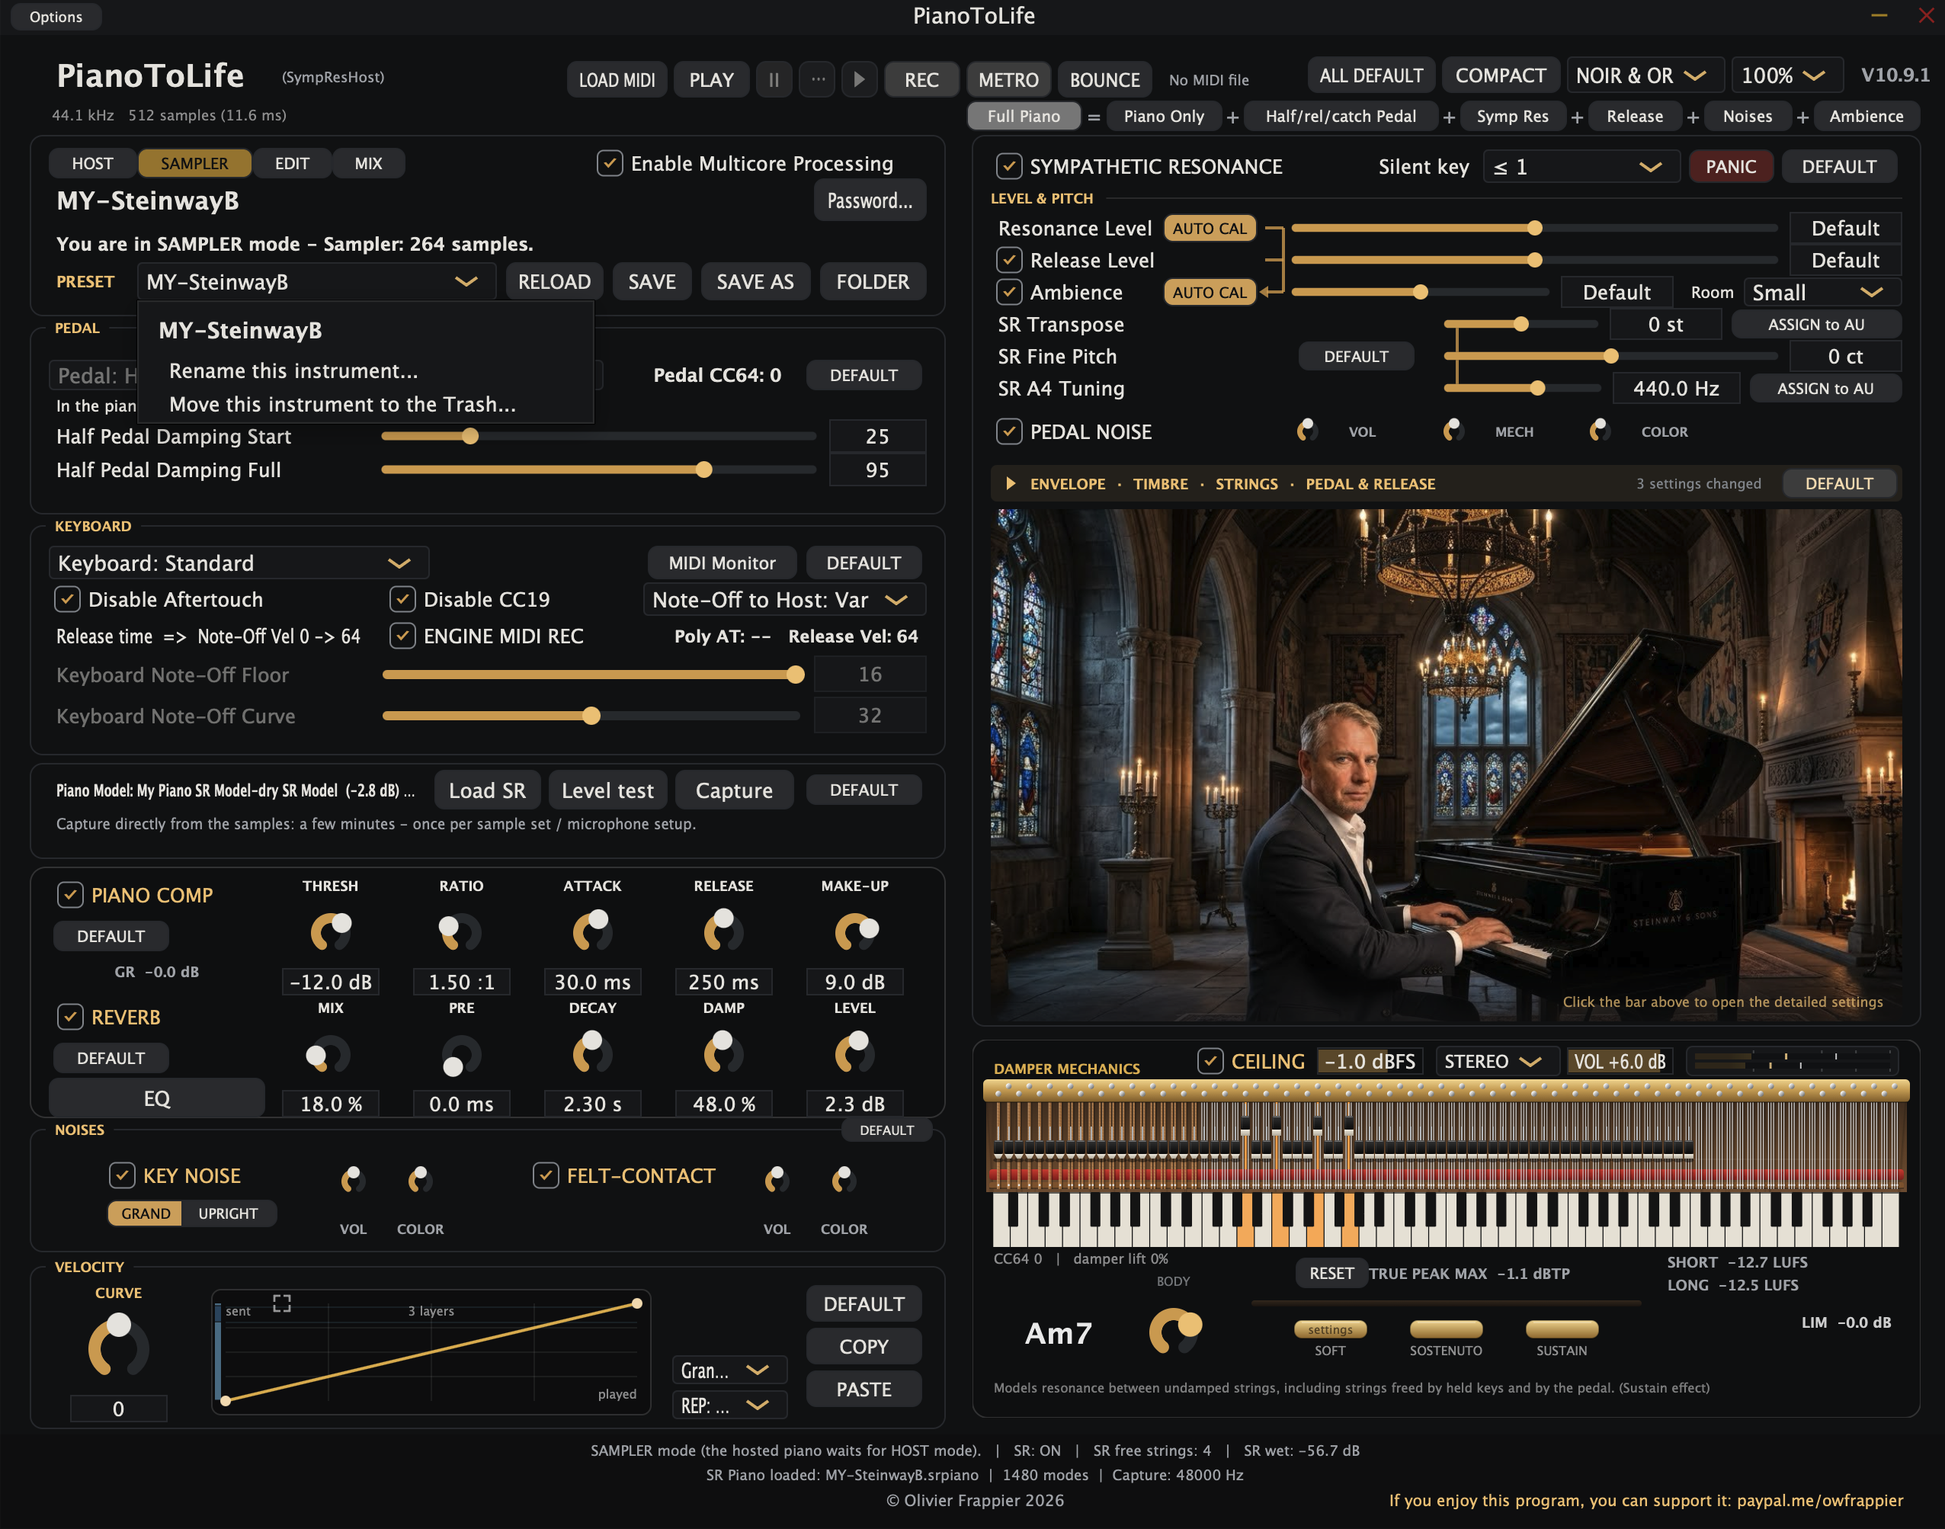
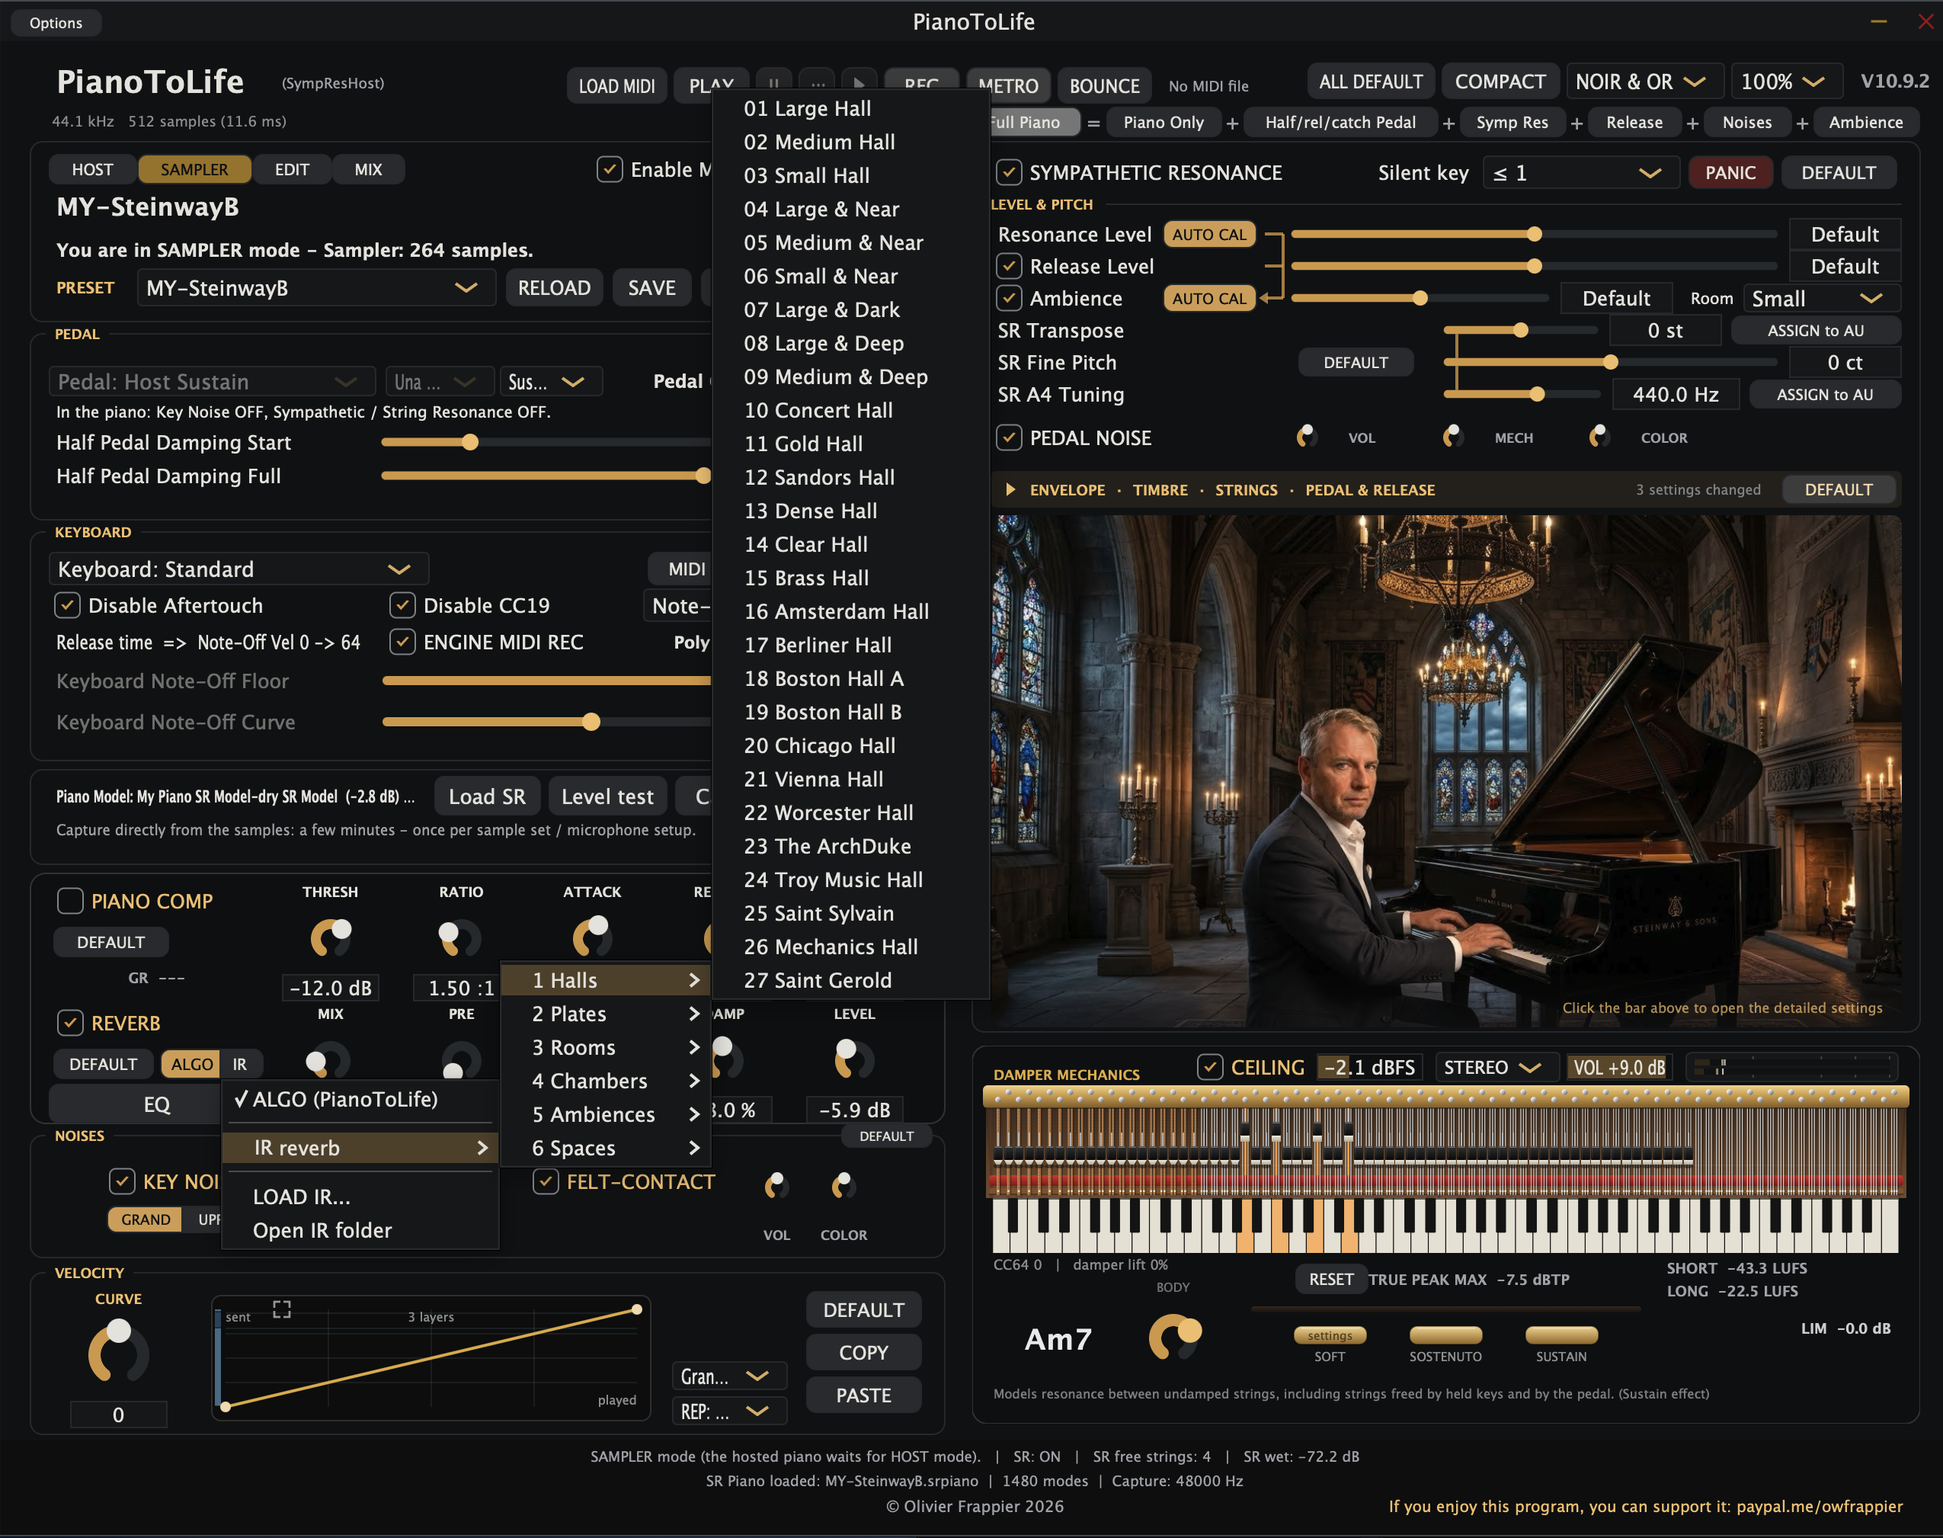
Add files via upload

diff --git a/MANUEL.md b/MANUEL.md
@@ -1,6 +1,6 @@
 # PianoToLife — Manuel d'utilisation
 
-*Version 10.9.1 · [English version](USER_MANUAL.md) · Mapping du sampler : [Manuel du sampler](MANUEL_SAMPLER.md)*
+*Version 10.9.2 · [English version](USER_MANUAL.md) · Mapping du sampler : [Manuel du sampler](MANUEL_SAMPLER.md)*
 
 PianoToLife fait **se comporter un piano virtuel comme un vrai** : les cordes qui résonnent par sympathie, la pédale
 de sustain et la demi-pédale, les étouffoirs, le relâchement, l'una corda, les bruits de la mécanique. Ce manuel
@@ -335,9 +335,10 @@ signaler un clavier qui se comporte à sa façon.
 | **BODY** | La taille perçue du piano (à gauche de SOFT) : la fondamentale de chaque note renforcée ou atténuée, en HOST et en SAMPLER |
 | **Ambience** | Une salle autour de tout ce que PianoToLife ajoute (résonance, relâchement, bruits), jamais autour du son de votre piano. **Room** : Small, Medium, Default, Hall ou **Auto** (10.8.0, voir plus bas). Le curseur va de −6 à +6 dB autour de Default (10.8.0) |
 | **Piano Comp**, **Reverb** | Placés après la résonance : tout l'instrument passe dedans |
+| **Reverb ALGO \| IR** (10.9.2) | À côté du DEFAULT de REVERB. **ALGO** : le Piano Hall de PianoToLife. **IR** : une reverb à convolution avec une **réponse impulsionnelle** de votre choix (une vraie salle, une plaque, une reverb de légende...). Cliquez sur **IR** : choisissez une IR, **LOAD IR...** (un WAV, AIFF ou FLAC téléchargé : il est copié dans le dossier `Impulse Responses` de votre dossier de sets, et choisi) ou **Open IR folder** (les dossiers qu'il contient, jusqu'à trois niveaux, deviennent des sous-menus). Les IR mono, stéréo et **true stereo** (4 canaux, ou une paire de fichiers « ... L » / « ... R » : choisissez l'un ou l'autre, les deux sont pris) sont lues, à toute fréquence, jusqu'à 10 s ; les fichiers B-format (ambisoniques) ne le sont pas. Le niveau est calé sur le Piano Hall. Choisir une IR met DECAY à la longueur propre de l'IR et DAMP à 0 (l'IR telle qu'enregistrée) ; ensuite **DECAY** raccourcit sa queue et **DAMP** éteint plus vite ses aigus ; MIX, PRE et LEVEL comme d'habitude. Aucune latence. Un preset garde le nom de l'IR : si le fichier manque, le Piano Hall joue et le bouton affiche **IR ?**. DEFAULT = ALGO. IR gratuites : [Voxengo](https://www.voxengo.com/impulses), [OpenAIR](https://www.openair.hosted.york.ac.uk/?page_id=2) (de vraies salles, prenez les fichiers stéréo), [Airwindows](https://airwindows.com/airwindows-impulses) ; les bibliothèques commerciales livrées en WAV marchent aussi |
 | **EQ1 / EQ2** (10.4.2) | Cliquez sur **EQ** sous REVERB : les EQ prennent la place de COMP / REVERB (le même bouton les ramène). **EQ1 BEFORE FX** agit avant COMP et REVERB, pour façonner le timbre du piano ; **EQ2 AFTER FX** agit tout à la fin, avant le Ceiling, pour corriger un casque. Pour chacun : **dessinez sur la courbe** (double-clic = un nouveau point, glisser = fréquence et gain, molette sur un point = sa largeur Q, clic droit = le supprimer), PREAMP, RESET = à plat, ou **LOAD** un preset — un `ParametricEQ.txt` d'AutoEq (mesures d'oratory1990, cible Harman) ou un fichier Equalizer APO ; chargez les presets de casque dans EQ2 (désactivez-le pour un bounce ou sur enceintes). Jusqu'à 20 points chacun. Gardé dans le preset et la session |
 | **Output Ceiling** | Limiteur de sécurité true peak transparent, avec TRUE PEAK MAX, LUFS et l'indicateur du limiteur (LIM). Depuis la 10.8.1, **CEILING, OUTPUT, VOL et le vumètre** sont réunis sur la ligne du titre DAMPER MECHANICS, dans l'ordre du son. Depuis la 10.9.1 : **un clic sur CEILING pour taper une valeur**, double-clic = défaut |
-| **VOL** (10.7.0) | Volume d'écoute, de −40 à +12 dB, juste avant le Ceiling (qui protège toujours). **Un clic pour taper une valeur** (10.9.1), double-clic = 0 dB. **Il n'est jamais sauvegardé : il revient à 0 dB à chaque changement de preset ou d'instrument, au redémarrage et avec ALL DEFAULT.** C'est voulu : VOL sert pour le moment, pas pour l'instrument. Réglez le vrai niveau de chaque instrument là où il se règle — les micros et LEVEL en mode SAMPLER, le volume du piano hébergé lui-même en mode HOST — pour que tous vos instruments jouent à des niveaux cohérents et qu'un VOL oublié ne vous trompe jamais |
+| **VOL** (10.7.0) | Volume d'écoute, de −40 à +12 dB, juste avant le Ceiling (qui protège toujours). **Un clic pour taper une valeur** (10.9.1), double-clic = 0 dB. **Depuis la 10.9.2, il est sauvegardé avec le preset, l'instrument et la session**, comme le Ceiling (les presets enregistrés avant s'ouvrent à 0 dB) ; ALL DEFAULT le remet à 0 dB. Réglez le vrai niveau de chaque instrument là où il se règle — les micros et LEVEL en mode SAMPLER, le volume du piano hébergé lui-même en mode HOST — et gardez VOL pour le niveau d'écoute |
 | **OUTPUT** (10.8.1 ; SWAP L-R depuis la 10.7.0) | **STEREO** tel quel ; **SWAP** gauche et droite inversés (le côté du public au lieu de celui du pianiste) ; **MONO** gauche et droite additionnés (pour les prises coïncidentes ou mono) ; **MONO L** / **MONO R** un seul côté, sur les deux sorties — avec des micros espacés la somme sonne creux (trous de phase), un seul côté non : essayez les deux, gardez le plus plein. Pour une seule enceinte, un retour de scène ou une sono mono. Cela dépend de votre casque / vos enceintes, pas du piano : **charger un preset ou un instrument ne le change jamais**, il revient au redémarrage et avec la session ; ALL DEFAULT le remet sur STEREO |
 | **Vumètre** (10.8.1) | Ce qui sort vraiment, après VOL, OUTPUT et le Ceiling : barres L et R, corps = RMS (ce qu'on entend), trait clair = crête, petit repère = la crête la plus haute (1,5 s), rouge au-dessus de −1 dBFS. Repères à −24, −12, −6 et 0 dBFS. Léger pour le CPU |
 

diff --git a/USER_MANUAL.md b/USER_MANUAL.md
@@ -1,6 +1,6 @@
 # PianoToLife — User Manual
 
-*Version 10.9.1 · [Version française](MANUEL.md) · Sampler mapping: [Sampler Manual](SAMPLER_MANUAL.md)*
+*Version 10.9.2 · [Version française](MANUEL.md) · Sampler mapping: [Sampler Manual](SAMPLER_MANUAL.md)*
 
 PianoToLife makes a virtual piano **behave like a real one**: the strings that ring in sympathy, the sustain pedal
 and half pedal, the dampers, the release, the una corda, the noises of the mechanism. This manual explains how it
@@ -315,9 +315,10 @@ goes to the **Host**. Differences are highlighted;
 | **BODY** | The perceived size of the piano (left of SOFT): each note's fundamental raised or lowered, in HOST and SAMPLER |
 | **Ambience** | A room around everything PianoToLife adds (resonance, release, noises), never around your piano's own sound. **Room**: Small, Medium, Default, Hall or **Auto** (10.8.0, see below). The slider goes from −6 to +6 dB around Default (10.8.0) |
 | **Piano Comp**, **Reverb** | Placed after the resonance, so the whole instrument goes through them |
+| **Reverb ALGO \| IR** (10.9.2) | Beside REVERB's DEFAULT. **ALGO**: PianoToLife's Piano Hall. **IR**: a convolution reverb with an **impulse response** of your choice (a real hall, a plate, a vintage reverb unit...). Click **IR**: choose an IR, **LOAD IR...** (a WAV, AIFF or FLAC you downloaded: it is copied into the `Impulse Responses` folder of your sample sets folder, and chosen), or **Open IR folder** (folders inside it, up to three levels, become sub-menus). Mono, stereo and **true stereo** IRs (4 channels, or a pair of files "... L" / "... R": choose either, both are taken) are read, at any sample rate, up to 10 s; B-format (ambisonic) files are not. The level is matched to the Piano Hall. Choosing an IR sets DECAY to the IR's own length and DAMP to 0 (the IR as recorded); then **DECAY** shortens its tail and **DAMP** makes its treble die sooner; MIX, PRE and LEVEL work as usual. No latency. A preset keeps the IR's name: if the file is missing, the Piano Hall plays and the button reads **IR ?**. DEFAULT = ALGO. Free IRs: [Voxengo](https://www.voxengo.com/impulses), [OpenAIR](https://www.openair.hosted.york.ac.uk/?page_id=2) (real halls, use the stereo files), [Airwindows](https://airwindows.com/airwindows-impulses); commercial libraries delivered in WAV work too |
 | **EQ1 / EQ2** (10.4.2) | Click **EQ** under REVERB: the EQs take the place of COMP / REVERB (the same button brings them back). **EQ1 BEFORE FX** works before COMP and REVERB, to shape the tone of the piano; **EQ2 AFTER FX** works at the very end, before the Ceiling, to correct headphones. Each: **draw it on the curve** (double-click = a new point, drag = frequency and gain, mouse wheel on a point = its width Q, right-click = remove), PREAMP, RESET = flat, or **LOAD** a preset — a `ParametricEQ.txt` from AutoEq (oratory1990 measurements, Harman target) or an Equalizer APO file; load headphone presets in EQ2 (switch it off for a bounce or on loudspeakers). Up to 20 points each. Kept in the preset and the session |
 | **Output Ceiling** | Transparent true-peak safety limiter, with TRUE PEAK MAX, LUFS and the limiter's meter (LIM). Since 10.8.1 **CEILING, OUTPUT, VOL and the level meter** sit together on the DAMPER MECHANICS title line, in the order of the sound. Since 10.9.1: **click once on CEILING to type a value**, double-click = default |
-| **VOL** (10.7.0) | Listening volume, −40 to +12 dB, just before the Ceiling (which still protects). **Click once to type a value** (10.9.1), double-click = 0 dB. **It is never saved: it goes back to 0 dB at each preset or instrument change, at restart and with ALL DEFAULT.** This is on purpose: VOL is for the moment, not for the instrument. Set the real level of each instrument where it belongs — the microphones and LEVEL in SAMPLER mode, the hosted piano's own volume in HOST mode — so that all your instruments play at coherent levels and a forgotten VOL never misleads you |
+| **VOL** (10.7.0) | Listening volume, −40 to +12 dB, just before the Ceiling (which still protects). **Click once to type a value** (10.9.1), double-click = 0 dB. **Since 10.9.2 it is saved with the preset, the instrument and the session**, as the Ceiling (presets saved before open at 0 dB); ALL DEFAULT puts it back to 0 dB. Set the real level of each instrument where it belongs — the microphones and LEVEL in SAMPLER mode, the hosted piano's own volume in HOST mode — and keep VOL for the listening level |
 | **OUTPUT** (10.8.1; SWAP L-R since 10.7.0) | **STEREO** as it is; **SWAP** left and right swapped (the audience's side instead of the pianist's); **MONO** left and right summed (for coincident or mono recordings); **MONO L** / **MONO R** one side only, on both outputs — with spaced microphones the sum sounds hollow (phase holes), one side does not: try both, keep the fuller one. For a single speaker, a stage monitor or a mono PA. It depends on your headphones / speakers, not on the piano: **loading a preset or an instrument never changes it**, it comes back at restart and with the session; ALL DEFAULT puts it back to STEREO |
 | **Level meter** (10.8.1) | What really goes out, after VOL, OUTPUT and the Ceiling: L and R bars, body = RMS (what you hear), bright line = peak, small mark = the highest peak (1.5 s), red above −1 dBFS. Marks at −24, −12, −6 and 0 dBFS. Light on CPU |
 

diff --git a/MANUEL_SAMPLER.md b/MANUEL_SAMPLER.md
@@ -1,6 +1,6 @@
 # Sampler de PianoToLife — Manuel d'utilisation
 
-*Version 10.9.1 · [English version](SAMPLER_MANUAL.md) · Manuel général : [Manuel d'utilisation](MANUEL.md)*
+*Version 10.9.2 · [English version](SAMPLER_MANUAL.md) · Manuel général : [Manuel d'utilisation](MANUEL.md)*
 
 Le sampler intégré de PianoToLife joue **vos propres échantillons de piano**, avec tous les moteurs de PianoToLife
 par-dessus. Ce manuel explique comment transformer un dossier d'échantillons en piano jouable, ce que fait chaque
@@ -84,7 +84,8 @@ UNDO et REDO sont dans le panneau de droite, juste au-dessus des réglages de la
 **Formats** : WAV, AIFF, FLAC et `.ncw` de Kontakt (10.3.5), mono ou stéréo, toute résolution. Les échantillons
 au-dessus de 48 kHz sont convertis en 44,1 / 48 kHz à l'enregistrement du set (un piano n'a rien d'utile au-dessus de
 20 kHz) ; les `.ncw` sont toujours réécrits en WAV ou FLAC dans le set. Les banques chiffrées ne sont pas lues :
-n'utilisez que des banques dont la licence le permet. Toutes les analyses (touche, niveau, brillance) se font **en
+n'utilisez que des banques dont la licence le permet (depuis la 10.9.2, un popup le dit quand des `.ncw` chiffrés sont
+déposés : ils gardent l'extension mais ne sont pas du NCW). Toutes les analyses (touche, niveau, brillance) se font **en
 stéréo**, canal par canal : une touche en opposition de phase entre deux micros espacés est mesurée comme on l'entend.
 
 **Nommer vos fichiers** (facultatif mais conseillé). PianoToLife trouve la touche d'après le son lui-même, mais un
@@ -258,9 +259,9 @@ partie vide de la grille pour vider la sélection avant de travailler sur toutes
    réglage partout), puis AUTO RELEASE se lance.
 8. **LEVEL** et **AUTO** (à gauche des outils, près du curseur de niveau) — le niveau de tout le set ; AUTO fait
    culminer la note la plus forte à la vélocité 127 à −9 dBFS (de la marge pour les accords, la résonance et le
-   relâchement). De préférence à la fin. C'est le vrai niveau de l'instrument : VOL (près du Ceiling) n'est qu'un
-   volume d'écoute et revient à 0 dB à chaque changement d'instrument ; réglez donc le niveau ici, et tous vos
-   instruments restent cohérents.
+   relâchement). De préférence à la fin. C'est le vrai niveau de l'instrument : VOL (près du Ceiling) est un
+   volume d'écoute (sauvegardé avec le preset depuis la 10.9.2) ; réglez donc le niveau ici, et tous vos instruments
+   restent cohérents.
 
 ### Retirer la salle des échantillons : DRY / DENOISE (10.9.0)
 

diff --git a/SAMPLER_MANUAL.md b/SAMPLER_MANUAL.md
@@ -1,6 +1,6 @@
 # PianoToLife Sampler — User Manual
 
-*Version 10.9.1 · [Version française](MANUEL_SAMPLER.md) · General manual: [User Manual](USER_MANUAL.md)*
+*Version 10.9.2 · [Version française](MANUEL_SAMPLER.md) · General manual: [User Manual](USER_MANUAL.md)*
 
 PianoToLife's built-in sampler plays **your own piano samples** with all of PianoToLife's engines on top of
 them. This manual explains how to turn a folder of samples into a playable piano, what every button does, and
@@ -78,7 +78,8 @@ buttons are in the right panel, just above the key's settings.
 
 **Formats**: WAV, AIFF, FLAC and Kontakt `.ncw` (10.3.5), mono or stereo, any bit depth. Samples above 48 kHz are
 converted to 44.1 / 48 kHz when the set is saved (a piano has nothing useful above 20 kHz); `.ncw` samples are always
-rewritten as WAV or FLAC in the set. Encrypted libraries are not read: use only libraries whose licence allows it.
+rewritten as WAV or FLAC in the set. Encrypted libraries are not read: use only libraries whose licence allows it
+(since 10.9.2 a popup says so when encrypted `.ncw` files are dropped: they keep the extension but are not NCW).
 Every analysis (key, level, brightness) is made **in stereo**, channel by channel: a key out of phase between two
 spaced microphones is measured as you hear it.
 
@@ -241,8 +242,8 @@ a selection before working on every key.
    (the same setting everywhere), then AUTO RELEASE runs.
 8. **LEVEL** and **AUTO** (left of the tools, by the level slider) — the level of the whole set; AUTO makes the loudest
    note at velocity 127 peak at −9 dBFS (room for chords, resonance and release). Best done at the end. This is the
-   instrument's real level: VOL (by the Ceiling) is only a listening volume and goes back to 0 dB at each instrument
-   change, so set the level here and all your instruments stay coherent.
+   instrument's real level: VOL (by the Ceiling) is a listening volume (saved with the preset since 10.9.2), so set the
+   level here and all your instruments stay coherent.
 
 ### Taking the room out of the samples: DRY / DENOISE (10.9.0)
 
